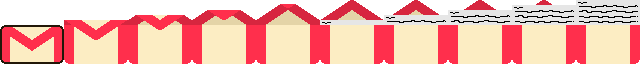
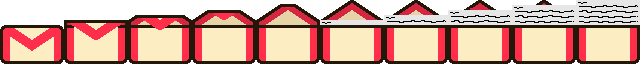
cleaned up animations for app and os

diff --git a/src/app/classes/entities/static-entities/computer-screen/computer-apps/email.js b/src/app/classes/entities/static-entities/computer-screen/computer-apps/email.js
@@ -1,5 +1,6 @@
 import { ComputerApp } from "./computer-app.js";
 import { Assets } from '../../../../assets/assets';
+import { GameConstants } from '../../../../../constants/game-constants';
 
 export class Email extends ComputerApp {
   constructor(handler) {
@@ -13,5 +14,44 @@ export class Email extends ComputerApp {
     }
 
     this.assets = Assets.getAssets('email');
+  }
+
+  appLoaded() {
+    this.showEmail = true;
+  }
+
+  render(graphics) {
+    super.render(graphics);
+
+    if (this.showEmail) {
+      const paddingX = GameConstants.GAME_WIDTH / 8;
+      const paddingY = GameConstants.GAME_HEIGHT / 16;
+      const width = GameConstants.GAME_WIDTH - (paddingX * 2);
+      const height = GameConstants.GAME_HEIGHT - (paddingY * 2);
+
+      graphics.fillStyle = "white";
+      graphics.fillRect(paddingX, paddingY, width, height);
+
+      graphics.drawText(
+        "Dear Sir or Madam,",
+        paddingX + 64,
+        paddingY + 64,
+        'black',
+      );
+
+      graphics.drawText(
+        "Something something plot plot plot plotplot",
+        paddingX + 64,
+        paddingY + 64 + GameConstants.FONT_SIZE + 16,
+        'black',
+      );
+
+      graphics.drawText(
+        "Something Something email event or what not.",
+        paddingX + 64,
+        paddingY + 64 + GameConstants.FONT_SIZE + 16 + GameConstants.FONT_SIZE + 16,
+        'black',
+      );
+    }
   }
 }

diff --git a/src/app/classes/input/player-cursor.js b/src/app/classes/input/player-cursor.js
@@ -30,9 +30,11 @@ export class PlayerCursor {
 
     render(graphics) {
         //offset x, y for hand cursor so click zone isnt at top left of sprite
-        const offset = (this.cursor === this.assets.hand) ? 16 : 0;
+        const isHandCursor = this.cursor === this.assets.hand;
+        const offset = isHandCursor ? 16 : 0;
+        const size = isHandCursor ? 64 : 32;
 
-        graphics.drawSprite(this.cursor, this.x - offset, this.y - offset, 64, 64);
+        graphics.drawSprite(this.cursor, this.x - offset, this.y - offset, size, size);
 
         //draw collision bounds for debugging
         // graphics.fillStyle = "blue";

diff --git a/src/app/classes/entities/static-entities/computer-screen/computer-apps/computer-app.js b/src/app/classes/entities/static-entities/computer-screen/computer-apps/computer-app.js
@@ -29,10 +29,15 @@ export class ComputerApp extends StaticEntity {
         const animation = this.assets.animations['loading'];
 
         // 9 is used here because this animation has 10 frames 0 to 9 and we want it to stop animating at the end
-        if (animation.index < 9) {
-          animation.tick();
+        if (animation.index >= 9) {
+          this.appLoaded();
+
+          this.state = 'idle';
+
+          return;
         }
 
+        animation.tick();
         break;
 
       default:

diff --git a/src/app/classes/assets/assets.js b/src/app/classes/assets/assets.js
@@ -59,7 +59,7 @@ bg.image = bg.sheet.crop(0, 0, GameConstants.GAME_WIDTH, GameConstants.GAME_HEIG
 const email = new Assets('email', 'email.png');
 email.icon = email.sheet.crop(0, 0, GameConstants.ICON_WIDTH, GameConstants.ICON_HEIGHT);
 createAnimationFor(email, 'loading', {
-    speed: 180,
+    speed: 240,
     row: 0,
     col: 0,
     length: 10,

diff --git a/src/app/classes/entities/entity-manager.js b/src/app/classes/entities/entity-manager.js
@@ -3,7 +3,6 @@ import { Rectangle } from './collision/rectangle';
 import { GameConstants } from '../../constants/game-constants';
 
 const clickableTypes = [
-    GameConstants.TYPES.UI,
     GameConstants.TYPES.COMPUTER,
     GameConstants.TYPES.COMPUTER_APP,
 ];

diff --git a/src/app/classes/entities/static-entities/computer-screen/computer-screen.js b/src/app/classes/entities/static-entities/computer-screen/computer-screen.js
@@ -34,7 +34,8 @@ export class ComputerScreen extends StaticEntity {
 
         this.resetAppPositions();
 
-        this.state = 'booting';
+        this.state = "idle";
+        // this.state = 'booting';
     }
 
     resetAppPositions() {

diff --git a/src/app/constants/game-constants.js b/src/app/constants/game-constants.js
@@ -17,7 +17,6 @@ export const GameConstants = {
     SPATIAL_GRID_SIZE: 64,
 
     TYPES: {
-        UI: 'ui',
         COMPUTER: 'computer',
         COMPUTER_APP: 'computer-app',
     },
